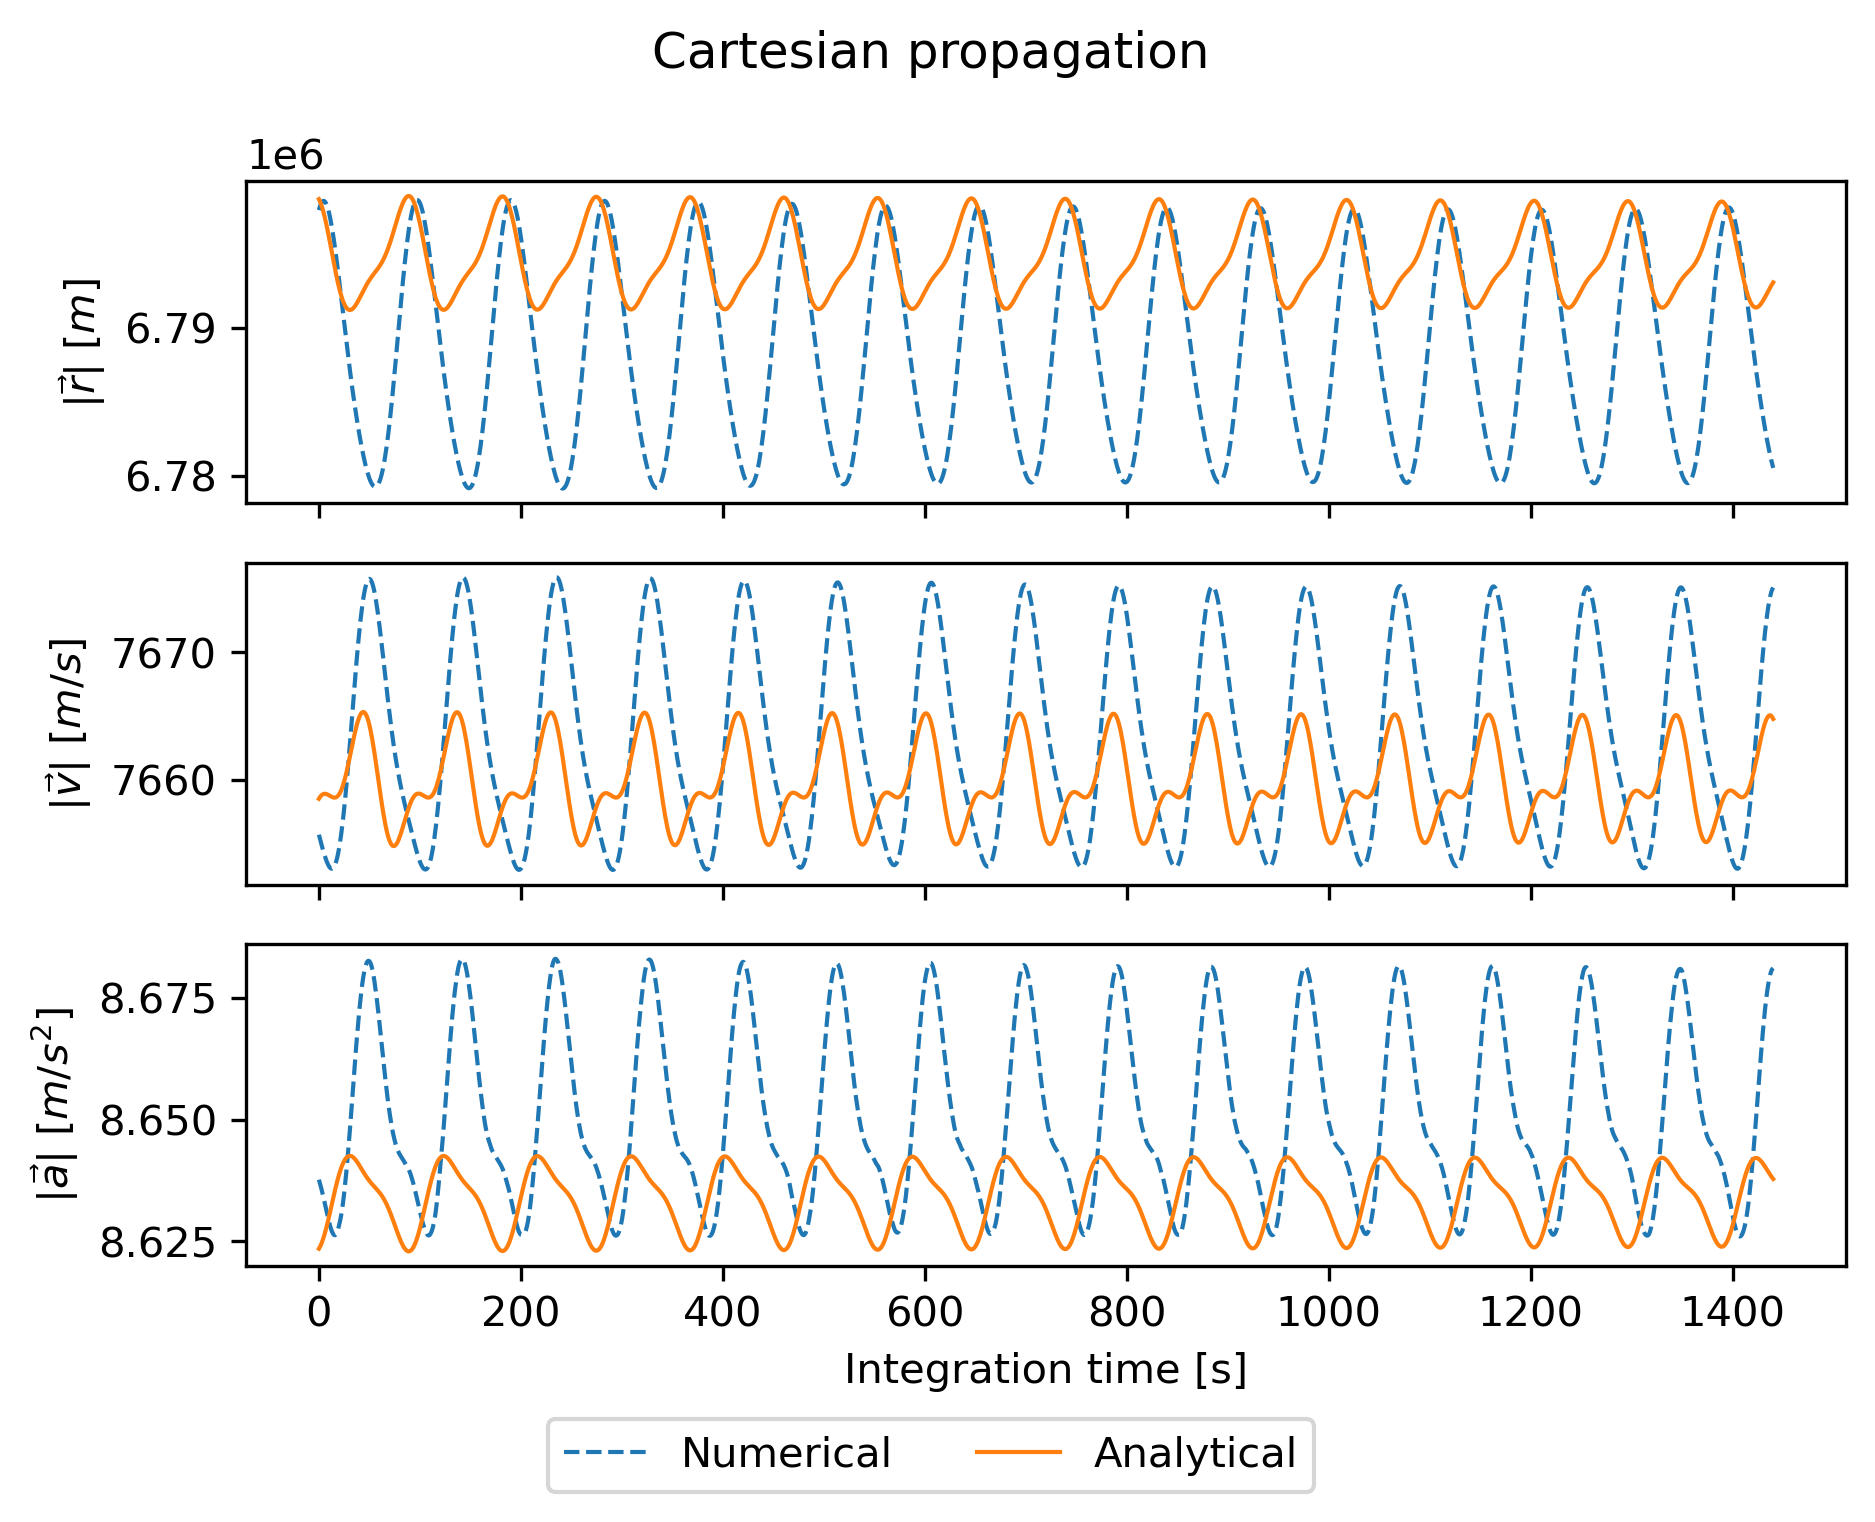
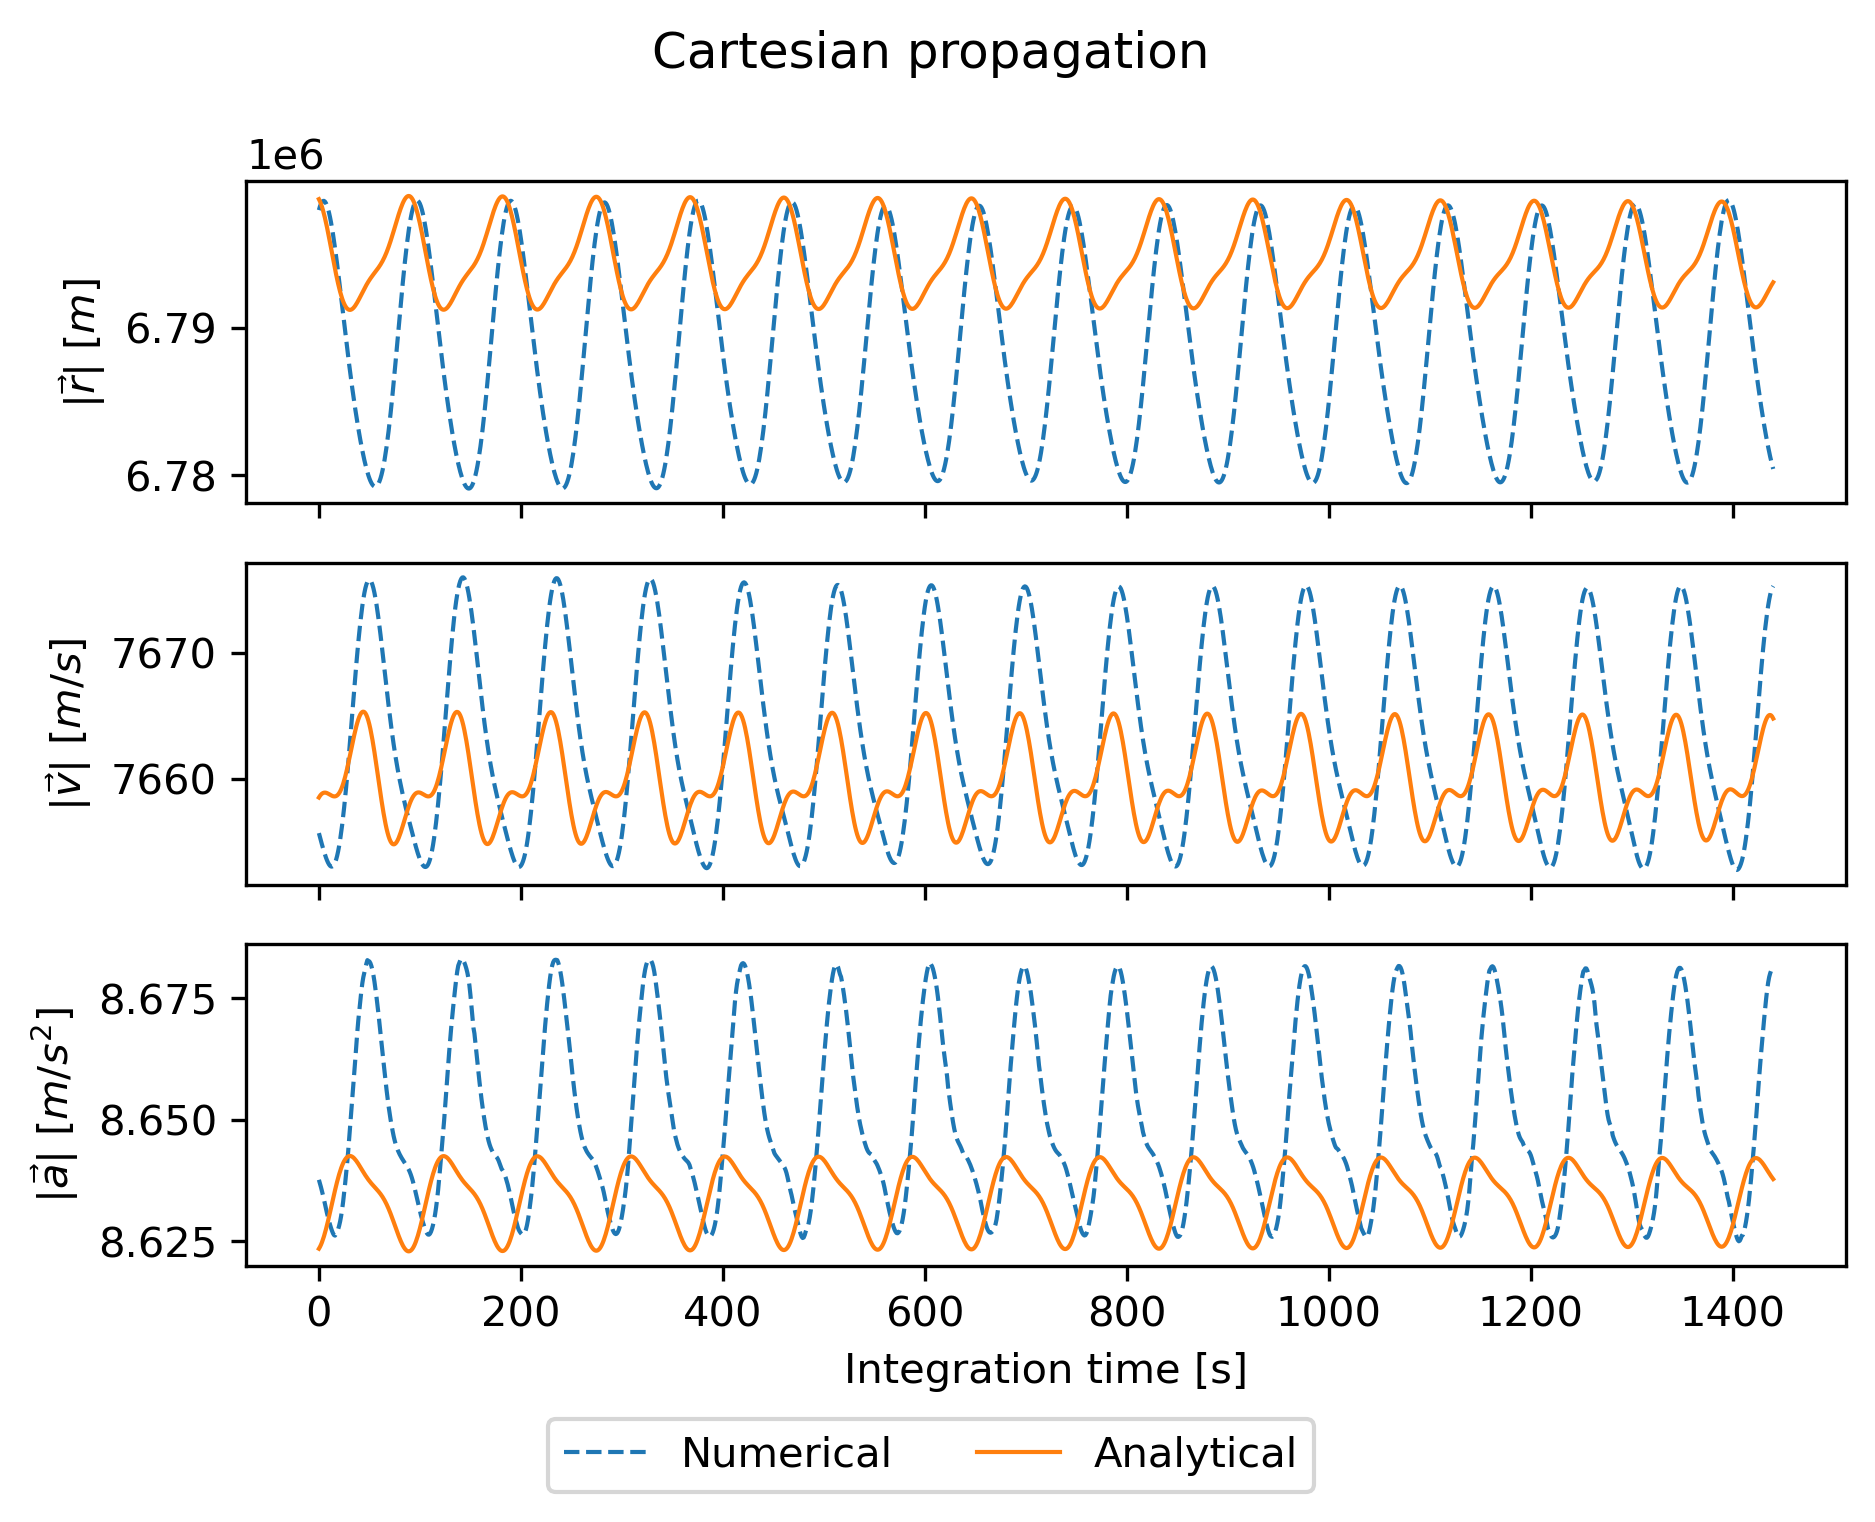
Added all the perturbation models except SRP. Updated the test_propagator.py file accordingly.

diff --git a/OPropagator/src/orbit/models.py b/OPropagator/src/orbit/models.py
@@ -1,6 +1,7 @@
 # Standards
 from org.orekit.frames import FramesFactory
 from org.orekit.utils import Constants, IERSConventions
+from org.orekit.time import TimeScalesFactory
 
 # Hipparchus library
 from org.hipparchus.ode.nonstiff import (
@@ -22,12 +23,18 @@ from org.hipparchus.ode.nonstiff import (
 
 # File-specific
 from orekit import JArray_double
-from org.orekit.bodies import CelestialBodyFactory
+from org.orekit.bodies import CelestialBodyFactory, OneAxisEllipsoid
+from org.orekit.forces.drag import DragForce, IsotropicDrag
 from org.orekit.forces.gravity import (
     ThirdBodyAttraction,
     HolmesFeatherstoneAttractionModel,
+    Relativity,
+    OceanTides,
+    SolidTides,
 )
 from org.orekit.forces.gravity.potential import GravityFieldFactory
+from org.orekit.models.earth.atmosphere import NRLMSISE00
+from org.orekit.models.earth.atmosphere.data import CssiSpaceWeatherData
 from org.orekit.propagation import SpacecraftState
 from org.orekit.propagation.analytical import (
     KeplerianPropagator,
@@ -430,47 +437,111 @@ class InitPropagator:
         forces = kwargs.get("forces", [])
         print("DYNAMIC MODEL")
         print(f"    {model}")
+        n_bodies = [
+            "EARTH",
+            "JUPITER",
+            "MARS",
+            "MERCURY",
+            "MOON",
+            "NEPTUNE",
+            "PLUTO",
+            "SATURN",
+            "SUN",
+            "URANUS",
+            "VENUS",
+        ]
+        non_planets = ["EARTH_MOON", "SOLAR_SYSTEM_BARYCENTER"]
         if model == "TWO_BODY":
             pass
         elif model == "N_BODY":
             if bodies:
                 for b in bodies:
-                    if b in [
-                        "EARTH",
-                        "EARTH_MOON",
-                        "JUPITER",
-                        "MARS",
-                        "MERCURY",
-                        "MOON",
-                        "NEPTUNE",
-                        "PLUTO",
-                        "SATURN",
-                        "SOLAR_SYSTEM_BARYCENTER",
-                        "SUN",
-                        "URANUS",
-                        "VENUS",
-                    ]:
+                    if b == "ALL":
+                        for bb in n_bodies:
+                            if bb in non_planets or bb == "EARTH":
+                                pass
+                            else:
+                                body = CelestialBodyFactory.getBody(bb)
+                                print(f"        {bb}")
+                        self.propagator.addForceModel(ThirdBodyAttraction(body))
+                    elif b in (n_bodies + non_planets):
                         body = CelestialBodyFactory.getBody(b)
+                        self.propagator.addForceModel(ThirdBodyAttraction(body))
                         print(f"        {b}")
                     else:
                         raise NameError("The requested body is not defined")
-                    self.propagator.addForceModel(ThirdBodyAttraction(body))
         else:
             raise NameError("The requested model is not defined")
 
         if forces and (self.propagatorModel == "NUMERICAL"):
             print(f"    ACTIVE FORCES")
             for f in forces:
+                # Body-centric Frame
+                ITRF_frame = FramesFactory.getITRF(IERSConventions.IERS_2010, True)
+                # Normalized Spherical Harmonics Provider
+                degree = 100
+                order = 100
+                gravityProvider = GravityFieldFactory.getNormalizedProvider(
+                    degree, order
+                )
                 if f == "GRAVITY":
-                    gravityProvider = GravityFieldFactory.getNormalizedProvider(10, 10)
                     self.propagator.addForceModel(
                         HolmesFeatherstoneAttractionModel(
-                            FramesFactory.getITRF(IERSConventions.IERS_2010, True),
+                            ITRF_frame,
                             gravityProvider,
                         )
                     )
                     print(f"        {f}")
+                elif f == "SOLID":
+                    # Add solid tides
+                    solid_tides = SolidTides(
+                        ITRF_frame,
+                        gravityProvider.getAe(),
+                        gravityProvider.getMu(),
+                        gravityProvider.getTideSystem(),
+                        IERSConventions.IERS_2010,
+                        TimeScalesFactory.getUT1(IERSConventions.IERS_2010, True),
+                        [CelestialBodyFactory.getSun(), CelestialBodyFactory.getMoon()],
+                    )
+                    self.propagator.addForceModel(solid_tides)
+                    print(f"        {f}")
+                elif f == "OCEAN":
+                    # Add solid tides
+                    ocean_tides = OceanTides(
+                        ITRF_frame,
+                        gravityProvider.getAe(),
+                        gravityProvider.getMu(),
+                        degree,
+                        order,
+                        IERSConventions.IERS_2010,
+                        TimeScalesFactory.getUT1(IERSConventions.IERS_2010, True),
+                    )
+                    self.propagator.addForceModel(ocean_tides)
+                    print(f"        {f}")
+                elif f == "DRAG":
+                    # Define earth body
+                    earthBody = OneAxisEllipsoid(
+                        Constants.WGS84_EARTH_EQUATORIAL_RADIUS,  # Equatorial radius (meters)
+                        Constants.WGS84_EARTH_FLATTENING,  # Flattening
+                        ITRF_frame,  # Reference frame
+                    )
+                    # Atmosphere model
+                    atmosphere = NRLMSISE00(
+                        CssiSpaceWeatherData("SpaceWeather-All-v1.2.txt"),
+                        CelestialBodyFactory.getSun(),
+                        earthBody,
+                    )
+                    # Define spacecraft shape and drag coefficient
+                    drag_shape = IsotropicDrag(
+                        2.2, 11.0
+                    )  # CD = 2.2, Surface Area = 11.0 m²
+                    self.propagator.addForceModel(DragForce(atmosphere, drag_shape))
+                    print(f"        {f}")
+                elif f == "RELATIVITY":
+                    relativity = Relativity(Constants.WGS84_EARTH_MU)
+                    self.propagator.addForceModel(relativity)
+                    print(f"        {f}")
                 else:
-                    raise NameError("The requested force model is not defined")
+                    raise NameError(f"The requested force model {f} is not defined")
 
         return self.propagator, self.propagator_states

diff --git a/OPropagator/tests/test_propagator.py b/OPropagator/tests/test_propagator.py
@@ -64,7 +64,9 @@ def propagator_setup(orbit_obj, pName, mass=6900.0, **kwargs):
             iSolver="NONSTIFF",
         )
         propagator, states = initPropagator.set_model(
-            model="N_BODY", bodies=[], forces=["GRAVITY"]
+            model="N_BODY",
+            bodies=["SUN", "MOON"],
+            forces=["GRAVITY", "SOLID", "OCEAN", "DRAG", "RELATIVITY"],
         )
     elif pName in ["Kepler", "Eckstein-Heschler", "Brouwer-Lyddane", "TLE"]:
         # High fidelity model - SGP4

diff --git a/OPropagator/README.md b/OPropagator/README.md
@@ -1,6 +1,6 @@
 # Project Structure
 
-'''
+```
 OPropagator/
 ├── docs/                       # Documentation
 │   └── overview.md             # Explanation of the model and its features
@@ -24,4 +24,4 @@ OPropagator/
 ├── main.py                     # Main entry point of the program
 ├── README.md                   # Project overview and setup instructions
 └── requirements.txt            # List of dependencies
-'''
+```
